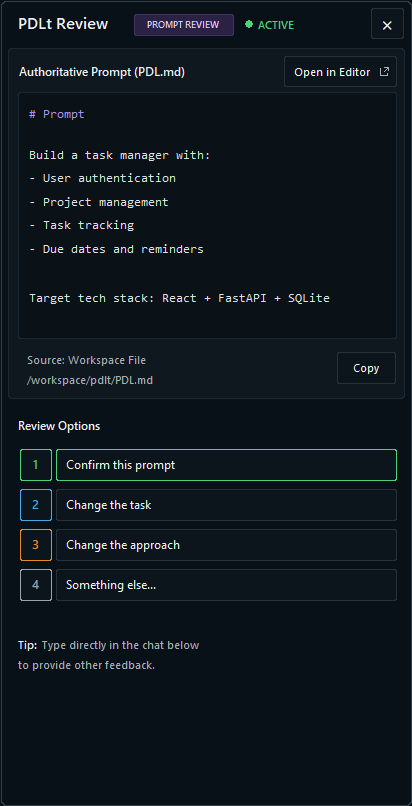
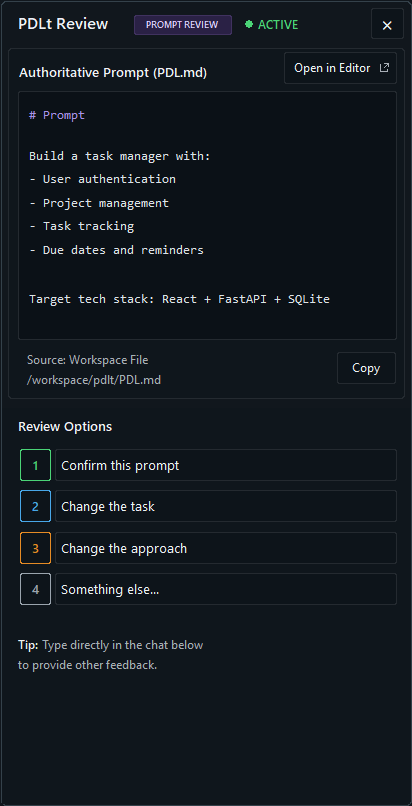
Close H2-C visual and authority review findings

diff --git a/r6o/views/sidecar/app.py b/r6o/views/sidecar/app.py
@@ -111,12 +111,15 @@ class _ActionHandle:
 class SidecarWindow:
     """Render a FocusProjection in a disposable, design-locked Sidecar."""
 
-    BG = "#081018"
-    SURFACE = "#0d151c"
-    CARD = "#10181f"
-    BODY = "#0a1218"
-    BORDER = "#26323b"
-    BORDER_SOFT = "#1d2932"
+    # Reference-raster samples cluster tightly around these low-contrast
+    # surfaces.  Keeping the layers close is important: the approved design
+    # reads as one compact Sidecar, not four flat black rectangles.
+    BG = "#11171d"
+    SURFACE = "#0d141a"
+    CARD = "#12181e"
+    BODY = "#0b1117"
+    BORDER = "#242a30"
+    BORDER_SOFT = "#242a30"
     TEXT = "#eef2f5"
     MUTED = "#a8afb6"
     ACCENT = "#a891e9"
@@ -354,8 +357,8 @@ class SidecarWindow:
             fill=self.TEXT,
             font=("Segoe UI Semibold", 12),
         )
-        badge = Rect(134, 14, 99, 21)
-        self._rounded_rect(badge, radius=5, fill="#2a2145", outline="#40325f")
+        badge = Rect(134, 15, 97, 19)
+        self._rounded_rect(badge, radius=4, fill="#2a2145", outline="#40325f")
         self.canvas.create_text(
             badge.x + badge.width // 2,
             badge.y + badge.height // 2,
@@ -371,7 +374,7 @@ class SidecarWindow:
             text="ACTIVE",
             anchor="w",
             fill=self.ACTIVE,
-            font=("Segoe UI Semibold", 8),
+            font=("Segoe UI Semibold", 9),
         )
         if not expanded:
             expand = Rect(587, 8, 32, 30)
@@ -394,7 +397,12 @@ class SidecarWindow:
         expanded = self.mode is SidecarMode.EXPANDED
         panel = self.layout.artifact
         self._semantic_rects["artifact"] = panel
-        self._rounded_rect(panel, radius=9, fill=self.CARD, outline=self.BORDER_SOFT)
+        self._rounded_rect(
+            panel,
+            radius=9,
+            fill="#0f161c" if expanded else self.CARD,
+            outline=self.BORDER_SOFT,
+        )
         title_y = 71 if expanded else 63
         artifact = (self.projection or {}).get("artifact") or {}
         self.canvas.create_text(
@@ -403,9 +411,9 @@ class SidecarWindow:
             text=str(artifact.get("title") or "Authoritative Artifact"),
             anchor="w",
             fill=self.TEXT,
-            font=("Segoe UI Semibold", 9),
+            font=("Segoe UI Semibold", 10),
         )
-        open_rect = Rect(284, 56, 112, 30) if expanded else Rect(287, 51, 112, 28)
+        open_rect = Rect(284, 52, 112, 31) if expanded else Rect(287, 51, 112, 28)
         self._rounded_rect(open_rect, radius=6, fill=self.SURFACE, outline=self.BORDER)
         self.canvas.create_text(
             open_rect.x + 10,
@@ -413,21 +421,21 @@ class SidecarWindow:
             text="Open in Editor",
             anchor="w",
             fill=self.TEXT,
-            font=("Segoe UI", 8),
+            font=("Segoe UI", 9),
         )
         self._draw_external_link_icon(
             Rect(open_rect.right - 20, open_rect.y + (open_rect.height - 16) // 2, 16, 16)
         )
         self._add_hit("open_editor", open_rect, self._open_artifact)
 
-        body_rect = Rect(18, 92, 378, 246) if expanded else Rect(19, 82, 381, 159)
+        body_rect = Rect(18, 91, 378, 248) if expanded else Rect(19, 82, 381, 167)
         self._rounded_rect(body_rect, radius=6, fill=self.BODY, outline=self.BORDER_SOFT)
         line_positions = (
             (114, 132, 155, 178, 202, 225, 249, 272, 298, 321)
             if expanded
             else (97, 106, 122, 140, 156, 172, 185, 202, 217)
         )
-        body_font = ("Consolas", 9 if expanded else 8)
+        body_font = ("Consolas", 10 if expanded else 9)
         for index, line in enumerate(self.artifact_body.visible):
             self.canvas.create_text(
                 body_rect.x + 11,
@@ -445,7 +453,7 @@ class SidecarWindow:
                 text=self._source_label,
                 anchor="w",
                 fill=self.MUTED,
-                font=("Segoe UI", 8),
+                font=("Segoe UI", 9),
             )
             self.canvas.create_text(
                 27,
@@ -453,7 +461,7 @@ class SidecarWindow:
                 text=self._source_value,
                 anchor="w",
                 fill=self.MUTED,
-                font=("Segoe UI", 8),
+                font=("Segoe UI", 9),
             )
             copy_rect = Rect(337, 352, 58, 31)
         else:
@@ -463,7 +471,7 @@ class SidecarWindow:
                 text=self._source_label,
                 anchor="w",
                 fill=self.MUTED,
-                font=("Segoe UI", 8),
+                font=("Segoe UI", 9),
             )
             self.canvas.create_text(
                 149,
@@ -471,7 +479,7 @@ class SidecarWindow:
                 text=self._source_value,
                 anchor="w",
                 fill=self.MUTED,
-                font=("Segoe UI", 8),
+                font=("Segoe UI", 9),
             )
             copy_rect = Rect(343, 259, 56, 30)
         self._rounded_rect(copy_rect, radius=6, fill=self.SURFACE, outline=self.BORDER)
@@ -480,7 +488,7 @@ class SidecarWindow:
             copy_rect.y + copy_rect.height // 2,
             text="Copy",
             fill=self.TEXT,
-            font=("Segoe UI", 8),
+            font=("Segoe UI", 9),
         )
         self._add_hit("copy", copy_rect, self._copy_artifact)
 
@@ -491,18 +499,30 @@ class SidecarWindow:
         self._semantic_rects["review_options"] = panel
         if not expanded:
             self._rounded_rect(panel, radius=9, fill=self.CARD, outline=self.BORDER_SOFT)
+        else:
+            # This is the open Sidecar surface, not a bordered or scrollable
+            # options card.  The reference's lower-field sample is slightly
+            # darker than the outer edge.
+            self.canvas.create_rectangle(
+                2,
+                panel.y,
+                self.layout.window.width - 2,
+                self.layout.window.height - 2,
+                fill="#0f161c",
+                outline="",
+            )
         self.canvas.create_text(
             18 if expanded else 431,
             425 if expanded else 63,
             text="Review Options",
             anchor="w",
             fill=self.TEXT,
-            font=("Segoe UI Semibold", 9),
+            font=("Segoe UI Semibold", 10),
         )
         row_y = 449 if expanded else 80
-        badge_x = 20 if expanded else 432
-        action_x = 56 if expanded else 467
-        action_width = 340 if expanded else 190
+        badge_x = 20 if expanded else 433
+        action_x = 55 if expanded else 468
+        action_width = 341 if expanded else 190
         self._semantic_rects["actions_content"] = Rect(
             18 if expanded else 431,
             row_y,
@@ -510,34 +530,40 @@ class SidecarWindow:
             151 if expanded else 139,
         )
         accents = (self.ACTIVE, self.BLUE, self.AMBER, self.NEUTRAL)
+        expanded_row_offsets = (0, 41, 83, 124)
         for index, button in enumerate(self._action_buttons):
-            y = row_y + index * (40 if expanded else 36)
-            badge = Rect(badge_x, y, 31 if expanded else 29, 31)
+            if expanded and index < len(expanded_row_offsets):
+                y = row_y + expanded_row_offsets[index]
+            else:
+                y = row_y + index * 36
+            badge = Rect(badge_x, y, 30 if expanded else 28, 31)
             action = Rect(action_x, y, action_width, 31)
             accent = accents[index] if index < len(accents) else self.NEUTRAL
-            focused = self._focused_role == button.action_id
             self._rounded_rect(badge, radius=5, fill=self.SURFACE, outline=accent)
             self.canvas.create_text(
                 badge.x + badge.width // 2,
                 badge.y + badge.height // 2,
                 text=str(button.ordinal),
                 fill=accent,
-                font=("Segoe UI Semibold", 9),
+                font=("Segoe UI Semibold", 10 if expanded else 9),
             )
             self._rounded_rect(
                 action,
                 radius=5,
                 fill=self.SURFACE,
-                outline=accent if focused else self.BORDER,
+                # The reference expresses primary/focus emphasis through the
+                # numbered badge.  A bright outline around the action body is
+                # a visible design deviation even though it is custom chrome.
+                outline=self.BORDER,
                 width=1,
             )
             self.canvas.create_text(
-                action.x + 10,
+                action.x + (6 if expanded else 7),
                 action.y + action.height // 2,
                 text=button.label,
                 anchor="w",
                 fill=self.TEXT if button.enabled else "#68727b",
-                font=("Segoe UI", 8 if not expanded else 9),
+                font=("Segoe UI", 9 if not expanded else 10),
             )
             self._add_hit(button.action_id, action, button.invoke)
         tip_y = 644 if expanded else 252
@@ -549,7 +575,7 @@ class SidecarWindow:
             text="Tip:",
             anchor="w",
             fill=self.TEXT,
-            font=("Segoe UI Semibold", 8),
+            font=("Segoe UI Semibold", 9),
         )
         self.canvas.create_text(
             tip_x + 24,
@@ -557,7 +583,7 @@ class SidecarWindow:
             text="Type directly in the chat below",
             anchor="w",
             fill=self.MUTED,
-            font=("Segoe UI", 8),
+            font=("Segoe UI", 9),
         )
         self.canvas.create_text(
             tip_x,
@@ -565,7 +591,7 @@ class SidecarWindow:
             text="to provide other feedback.",
             anchor="w",
             fill=self.MUTED,
-            font=("Segoe UI", 8),
+            font=("Segoe UI", 9),
         )
 
     def _apply_layout(self) -> SidecarLayout:

diff --git a/scripts/h2/verify_sidecar_component.py b/scripts/h2/verify_sidecar_component.py
@@ -220,15 +220,36 @@ def _reject_overall_authority(value: Any, path: str = "result") -> None:
     if not isinstance(value, str):
         return
     words = _authority_words(value)
-    if "pass" in words and (
-        "overall" in words
-        or "codex" in words
-        or "e2e" in words
-        or "attachment" in words
-        or "composer" in words
-        or "focus" in words
-        or {"human", "pass"} <= words
-    ):
+    claim_words = {
+        "pass",
+        "passed",
+        "approve",
+        "approved",
+        "authorize",
+        "authorized",
+        "complete",
+        "completed",
+        "conform",
+        "conforms",
+        "conformant",
+        "qualify",
+        "qualified",
+        "test",
+        "tested",
+        "verify",
+        "verified",
+    }
+    later_scope_words = {
+        "overall",
+        "h2",
+        "codex",
+        "e2e",
+        "attachment",
+        "composer",
+        "focus",
+        "human",
+    }
+    if words & claim_words and words & later_scope_words:
         raise AssertionError(f"H2-C evidence claims forbidden authority at {path}: {value!r}")
 
 

diff --git a/r6o/tests/h2/test_sidecar_component_display.py b/r6o/tests/h2/test_sidecar_component_display.py
@@ -132,6 +132,17 @@ def test_component_evidence_rejects_later_gate_authority(key: str) -> None:
         validate_evidence(report, evidence_dir=DEFAULT_EVIDENCE_DIR)
 
 
+@pytest.mark.parametrize(
+    "claim",
+    ["H2 PASS", "CODEX TESTED", "H2-C AUTHORIZED", "E2E CONFORMS"],
+)
+def test_component_evidence_rejects_textual_later_gate_authority(claim: str) -> None:
+    report = json.loads((DEFAULT_EVIDENCE_DIR / "component-result.json").read_text(encoding="utf-8"))
+    report["modes"]["STANDARD"]["visible_text_inventory"].append(claim)
+    with pytest.raises(AssertionError, match="forbidden authority"):
+        validate_evidence(report, evidence_dir=DEFAULT_EVIDENCE_DIR)
+
+
 def test_design_evidence_rejects_human_pass_divergence_and_fuzzy_authority() -> None:
     report = json.loads((DEFAULT_EVIDENCE_DIR / DESIGN_EVIDENCE_FILE).read_text(encoding="utf-8"))
     mutation = copy.deepcopy(report)
